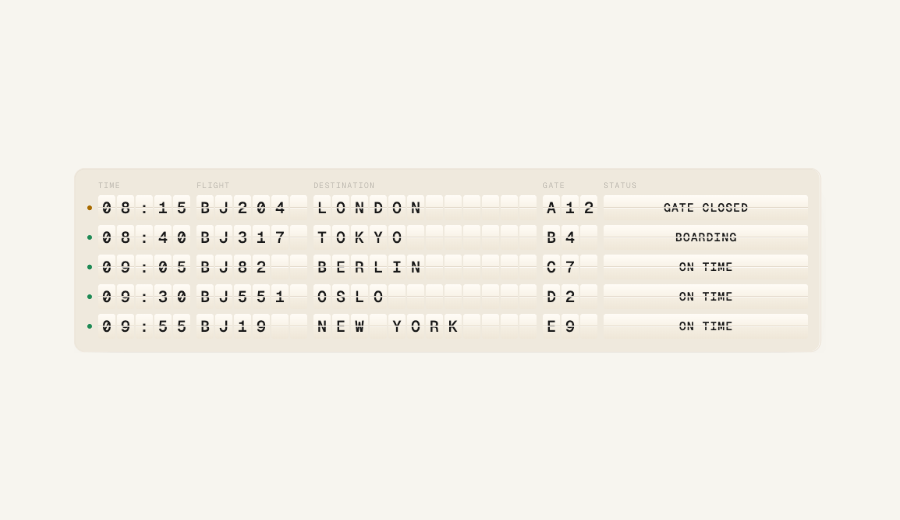
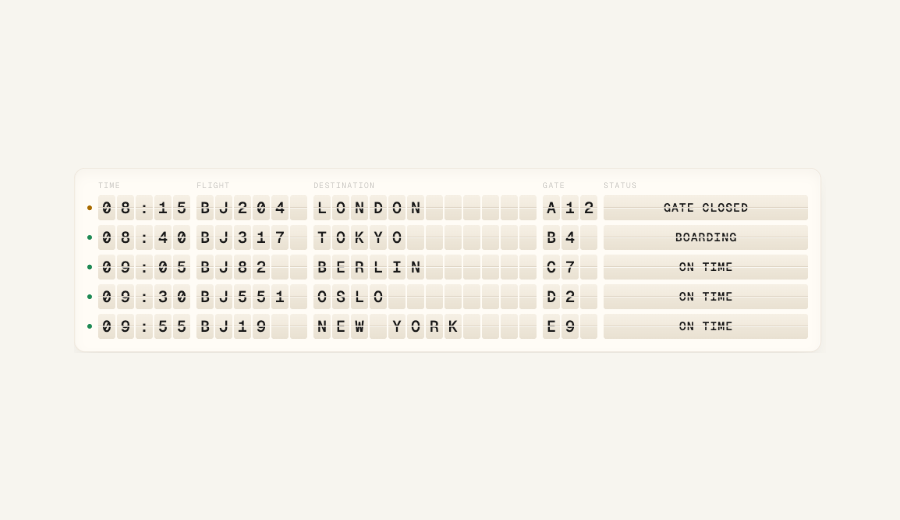
Put the flap ledger board on the library card surface

Changed region(s): [[0.0933, 0.3385, 0.9022, 0.6769]]

diff --git a/components/bjork-ui/tables/flap-ledger.tsx b/components/bjork-ui/tables/flap-ledger.tsx
@@ -10,6 +10,7 @@ import {
 import { useReducedMotion } from "framer-motion";
 import { cn } from "@/lib/utils";
 import { BJORK_PALETTE, type BjorkTone } from "@/components/bjork-ui/_core/palette";
+import { BJORK_SURFACE } from "@/components/bjork-ui/_core/surface";
 import { useBjorkTone } from "@/components/bjork-ui/_core/tone";
 import { useVisibleLoop } from "@/components/bjork-ui/_core/loop";
 import { LiveRegion } from "@/components/bjork-ui/_core/a11y";
@@ -101,19 +102,19 @@ interface Material {
 
 const MATERIAL: Record<BjorkTone, Material> = {
   dark: {
-    board: "#0b0b0b",
-    topFace: ["#1a1a1a", "#151515"],
-    bottomFace: ["#131313", "#101010"],
+    board: BJORK_SURFACE.dark.surface,
+    topFace: ["#1e1e1e", "#191919"],
+    bottomFace: ["#171717", "#141414"],
     split: "#050505",
     splitHighlight: "rgba(255,255,255,0.04)",
     flapEdge: "rgba(255,255,255,0.16)",
     flapShade: 0.6,
   },
   light: {
-    board: "#efe9dd",
-    topFace: ["#fffcf6", "#f8f2e7"],
-    bottomFace: ["#f5efe3", "#efe7d8"],
-    split: "#e1d7c8",
+    board: BJORK_SURFACE.light.surface,
+    topFace: ["#f6f0e5", "#f1eadd"],
+    bottomFace: ["#eee7d9", "#e9e1d2"],
+    split: "#ddd2c1",
     splitHighlight: "rgba(255,255,255,0.7)",
     flapEdge: "rgba(0,0,0,0.14)",
     flapShade: 0.22,
@@ -976,9 +977,11 @@ export function FlapLedger({
         style={{
           padding: m.pad,
           borderRadius: m.boardRadius,
+          // The library's card surface, pinned to the board's tone so the frame
+          // always matches the faces drawn on the canvas.
           background: material.board,
-          border: `1px solid var(--bjork-border, ${palette.border})`,
-          boxShadow: "var(--bjork-shadow-panel, none)",
+          border: `1px solid ${BJORK_SURFACE[resolvedTone].border}`,
+          boxShadow: BJORK_SURFACE[resolvedTone].shadowSurface,
           color: ink,
           width: boardWidth + ledSpace + m.pad * 2 + 2,
         }}
